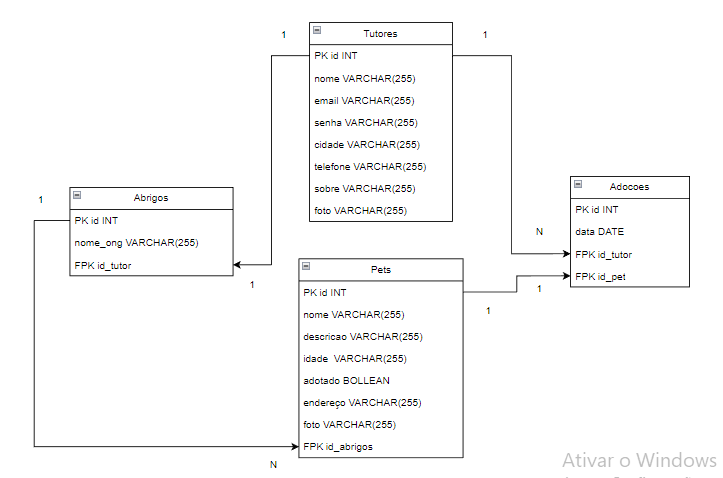
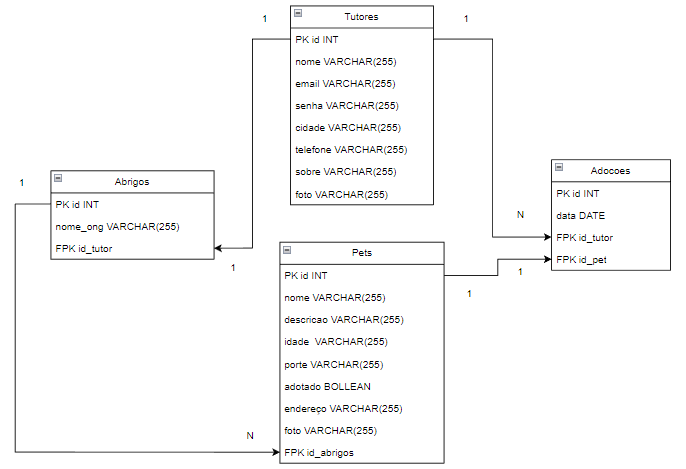
Adicionando seeds para abrigo, adoção e pets

Changed region(s): [[0.0306, 0.1194, 0.9796, 1.0], [0.3673, 0.0, 0.7041, 0.4776], [0.7653, 0.9552, 1.0, 0.9851]]

diff --git a/api/controllers/AbrigosController.js b/api/controllers/AbrigosController.js
@@ -1,0 +1,56 @@
+const database = require('../models');
+
+class AbrigosController{
+    static async PegaTodosAbrigos (req,res){
+        try {
+            const todosAbrigos = await database.Abrigos.findAll();
+            return res.status(200).json(todosAbrigos);
+        } catch (error) {
+            return res.status(500).json(error.message);
+        }
+    }
+
+    static async PegaUmTutor (req, res){
+        try {
+            const { id } = req.params;
+            const umtutor = await database.Tutores.findOne({where: {id:Number(id)} });
+            return res.status(200).json(umtutor);
+        } catch (error) {
+            return res.status(500).json(error.message);
+        }
+    }
+
+    static async CriaUmTutor (req, res){
+        try {
+            const tutor = req.body;
+            const tutorCriado = await database.Tutores.create(tutor);
+            return res.status(200).json(tutorCriado);
+        } catch (error) {
+            return res.status(500).json(error.message);
+        }
+    }
+
+    static async AtualizaUmTutor (req, res){
+        try {
+            const { id } = req.params;
+            const tutor = req.body;
+            await database.Tutores.update(tutor,{ where: {id:Number(id)} });
+            const umtutor = await database.Tutores.findOne({where: {id:Number(id)} });
+            return res.status(200).json(umtutor);
+        } catch (error) {
+            return res.status(500).json(error.message);
+        }
+    }
+
+    static async DeletaUmTutor (req, res){
+        try {
+            const { id } = req.params;
+            await database.Tutores.destroy({where: {id:Number(id)} });
+            return res.status(200).json({message:`O tutor com o id ${id} foi deletado`});
+        } catch (error) {
+            return res.status(500).json(error.message);
+        }
+    }
+}
+
+module.exports = AbrigosController;

diff --git a/api/seeders/20230407225851-demo-pets.js b/api/seeders/20230407225851-demo-pets.js
@@ -1,0 +1,36 @@
+'use strict';
+
+/** @type {import('sequelize-cli').Migration} */
+module.exports = {
+  async up (queryInterface, Sequelize) {
+    await queryInterface.bulkInsert('Pets', [{
+      id_abrigo: 1,
+      nome: "Doguinho",
+      descricao: "Muito carinhoso",
+      idade: "Dois meses",
+      porte: "pequeno",
+      adotado: false,
+      endereco: "sp",
+      foto: "https://encrypted-tbn0.gstatic.com/images?q=tbn:ANd9GcQktXg5_v8-L9AslphhrFvphE12SWkGl-_Jig&usqp=CAU",
+      createdAt: new Date(), 
+      updatedAt: new Date()
+      },
+      {
+        id_abrigo: 1,
+        nome: "Cao",
+        descricao: "Muito nervoso",
+        idade: "Dois anos",
+        porte: "pequeno",
+        adotado: true,
+        endereco: "sp",
+        foto: "https://i0.wp.com/petanjo.com/blog/wp-content/uploads/2016/12/Captura-de-Tela-2016-12-13-a%CC%80s-11.00.33.png?resize=238%2C300&ssl=1",
+        createdAt: new Date(), 
+        updatedAt: new Date()
+        }], {});
+    
+  },
+
+  async down (queryInterface, Sequelize) {
+    await queryInterface.bulkDelete('Pets', null, {});
+  }
+};

diff --git a/api/seeders/20230407231250-demo-adocao.js b/api/seeders/20230407231250-demo-adocao.js
@@ -1,0 +1,18 @@
+'use strict';
+
+/** @type {import('sequelize-cli').Migration} */
+module.exports = {
+  async up (queryInterface, Sequelize) {
+    await queryInterface.bulkInsert('Adocoes', [{
+      id_pet: 2,
+      id_tutor: 2,
+      data: new Date(),
+      createdAt: new Date(), 
+      updatedAt: new Date()
+      }], {});
+  },
+
+  async down (queryInterface, Sequelize) {
+    await queryInterface.bulkDelete('Adocoes', null, {});
+  }
+};

diff --git a/api/seeders/20230407225137-demo-abrigos.js b/api/seeders/20230407225137-demo-abrigos.js
@@ -1,0 +1,17 @@
+'use strict';
+
+/** @type {import('sequelize-cli').Migration} */
+module.exports = {
+  async up (queryInterface, Sequelize) {
+     await queryInterface.bulkInsert('Abrigos', [{
+        nome_ong: 'Admin pets',
+        id_dono: 1,
+        createdAt: new Date(), 
+        updatedAt: new Date()
+      }], {});
+  },
+
+  async down (queryInterface, Sequelize) {
+    await queryInterface.bulkDelete('Abrigos', null, {});
+  }
+};
